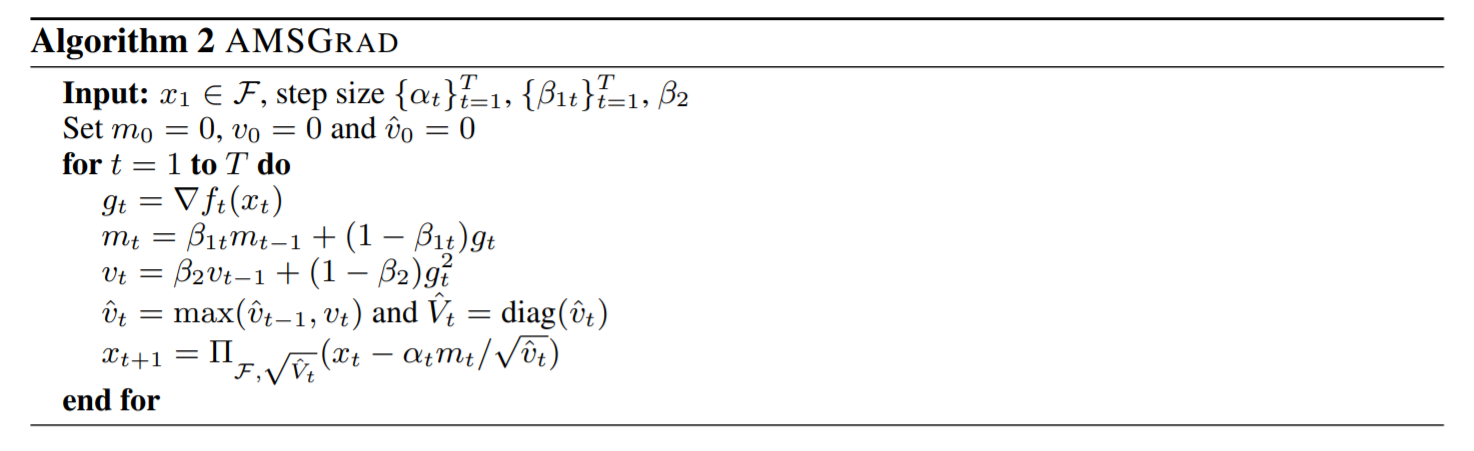
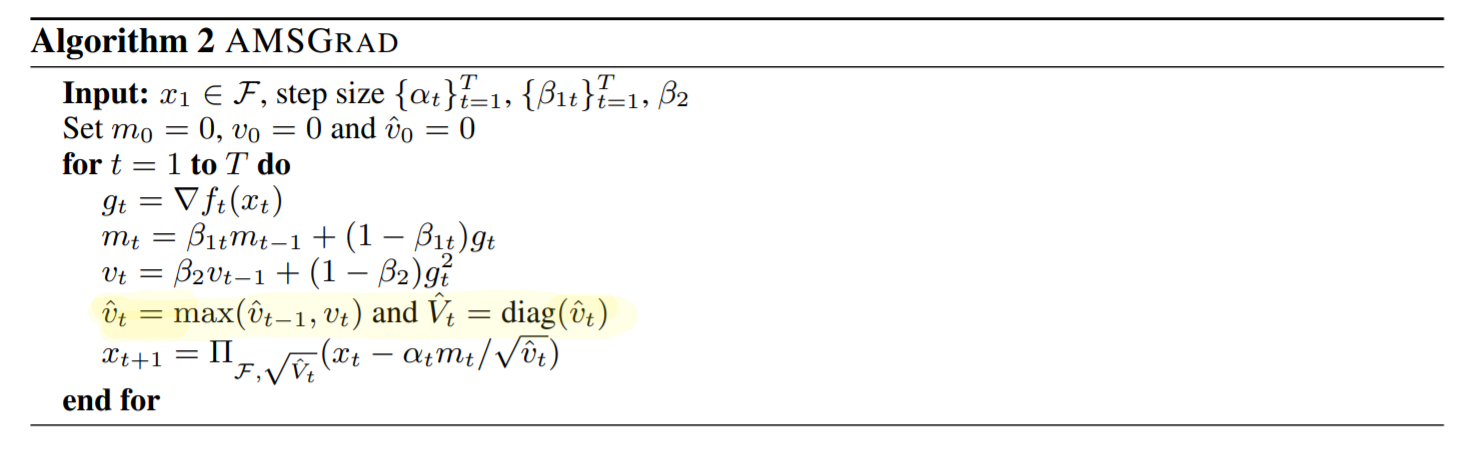
Updated summary following review

Changed region(s): [[0.0624, 0.6208, 0.4369, 0.7761]]

diff --git a/_summaries/reddi2019on_2.md b/_summaries/reddi2019on_2.md
@@ -17,31 +17,26 @@ This paper introduces scenarios where the ADAM optimizer fails to converge to th
 
 The main issue with ADAM and similar variants is that they use exponential moving averages, which puts a major focus on the past few gradients. As a result, large gradient values with important information are quickly multiplied by a decaying factor to have very little influence. 
 
-There are three theorems presented in this paper, with each building upon the last, that provide the structure behind the issues with ADAM not converging:
+There are three theorems presented in this paper on the non-conergence of ADAM, with the third one being the most specific:
 
-1.
-There is an online convex optimization problem where ADAM has non-zero average regret 
-- The details are provided by the situations provided in the following theorems
-- Non-zero average regret basically means the influence of the gradient can't keep up with bad decisions, thus the the network is not converging or learning anything
-
-2.
-For any constant β1, β2 ∈ [0, 1) such that β1 < β2^(1/2), there is an online convex optimization problem where ADAM has non-zero average regret
-- When these constraints are true, ADAM does not converge in certain scenarios
-- There is no constant that can be put into the denominator of the ADAM update step to counteract this issue happening to some constant β1, β2
-
-3.
 For any constant β1, β2 ∈ [0, 1) such that β1 < β2^(1/2), there is a stochastic convex optimization problem where ADAM does not converge to the optimal solution
+- β1 and β2 here refer to the "forgetting factor" for the momentum (m) and the exponential moving average (v)
+- There is the potential for non-zero average regret in this situation, which basically means the influence of the gradient can't keep up with bad decisions, thus the the network is not converging or learning anything
+- Stochastic gradient descent does not have this problem because the learning rate is non-increasing
+- There is no constant that can be put into the denominator of the ADAM update step to counteract this issue happening to some constant β1, β2
 - This theorem specifies that this is a real issue for practical problems, and the only real solution to cover all scenarios would be to have a different β1 and β2 for each dimension
-- However, that creates additional hyperparameters 
+    - However, that creates additional hyperparameters 
+
 
 Solution: AMSGrad
 - AMSGrad basically keeps track of the largest gradient to use as a dynamic way to normalize the gradients
 - This ensures that the learning rate does not increase
 - But avoids the downside of ADAGRAD, which is that the learning rate decreases too much
 
+Here is the outline of the generic adaptive method. The m term refers to the momentum and the v term refers to the averaging function. 
 ![AMSGrad](reddi2019on_2a.png)
 
-The key difference in AMSGrad from the generic adaptive method is seen when the maximum gradient is kept from the previous set. This recursively ensures the largest gradient is kept track of.
+The key difference in AMSGrad from the generic adaptive method is seen when the maximum gradient is kept from the previous set. This recursively ensures the largest gradient is kept track of. By doing so, the learning step size is non-increasing. 
 
 ![AMSGrad](reddi2019on_2b.png)
 
@@ -57,5 +52,5 @@ The paper also presents an alternative solution called ADAMNC
 
 ## TL;DR
 - There are certain situations that come up practically where ADAM slows down or entirely fails to converge 
-- This paper provides a solution called AMSGrad that normalizes the average of the gradients using the largest seen gradient so that the learning rate does not increase
+- This paper provides a solution called AMSGrad that normalizes the exponential moving average of the gradients using the largest seen gradient so that the learning rate does not increase
 - AMSGrad avoids the issues present in ADAM, while also speeding up training in many situations
